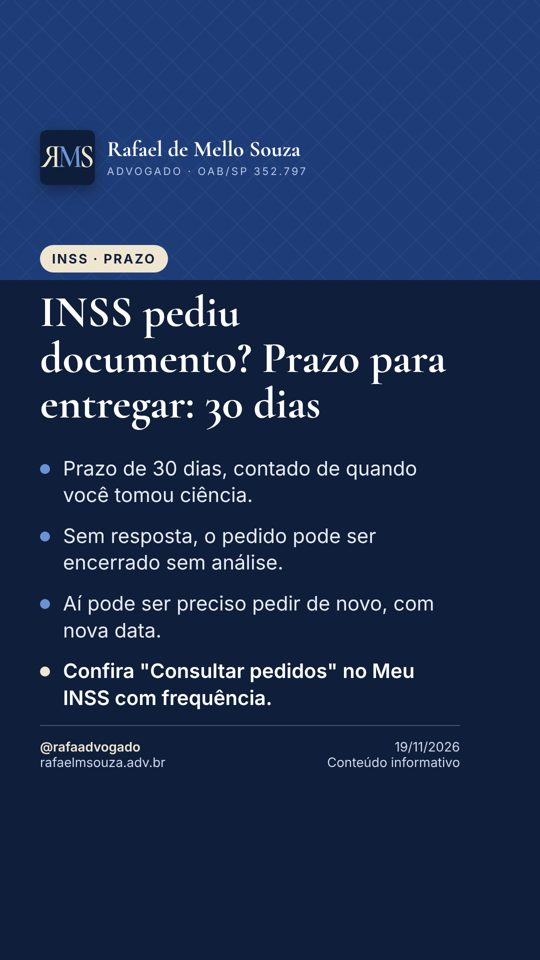
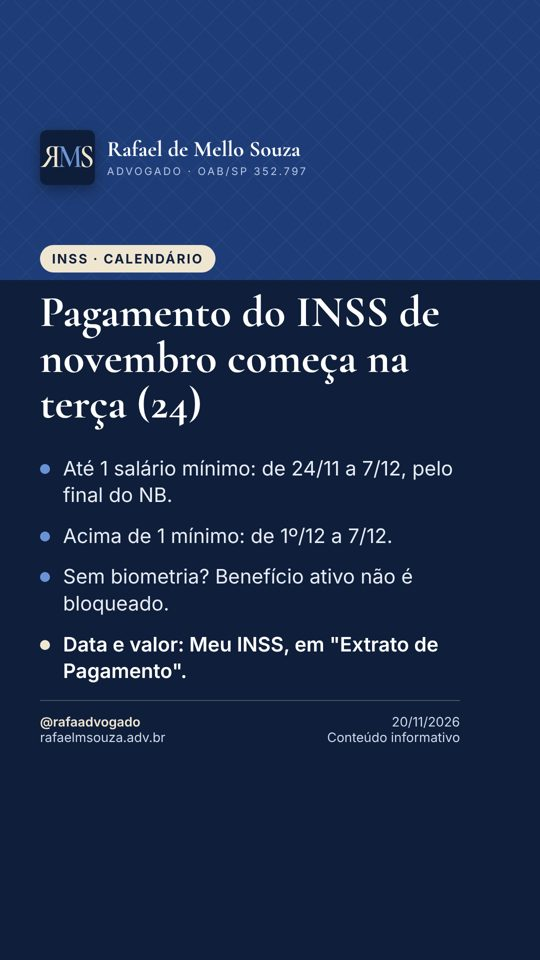
Notícia 20/11/2026: calendário de pagamento de novembro e biometria
Claude-Session: https://claude.ai/code/session_01TjRXWga78bz1b3B69nQ2d7

Changed region(s): [[0.0593, 0.25, 0.8296, 0.8125], [0.5926, 0.75, 0.8593, 0.8125], [0.0593, 0.5938, 0.0889, 0.7188]]

diff --git a/noticias/index.html b/noticias/index.html
@@ -14,4 +14,4 @@ h1{font-family:Georgia,serif;color:#0f1e3a;font-size:28px;line-height:1.25;margi
 .btn.s{background:#fff;color:#0f1e3a;border:1px solid #e3dccb}.lista a{text-decoration:none}.lista div{border-top:1px solid #e3dccb;padding:14px 0}.lista div:first-child{border-top:0}
 footer{text-align:center;font-size:13px;color:#5d6676;padding:10px 16px 30px}</style></head><body>
 <header><a href="/"><img src="/icon.png" alt=""></a><a href="/"><div class="n">Rafael de Mello Souza</div><div class="o">ADVOGADO · OAB/SP 352.797</div></a></header>
-<nav><a href="/#inicio">Início</a><a href="/#quem-somos">Quem somos</a><a href="/noticias/">Notícias</a><a href="/#consulta">Consultar processo</a></nav><main><div class="card"><h1>Notícias</h1><p class="sub">INSS e Direito Previdenciário, toda segunda, quarta e sexta.</p><div class="lista"><div><span class="d">19/11/2026</span><h2><a href="/noticias/2026-11-19-inss-exigencia-30-dias-portaria-1363.html">INSS: quem recebe exigência tem 30 dias para entregar documentos</a></h2><span class="sub">A Portaria DIRBEN/INSS nº 1.363/2026, publicada no Diário Oficial em 16/11/2026 e já em vigor, deixou claro o prazo para cumprir as exigências do INSS: quando o instituto pede um…</span></div><div><span class="d">18/11/2026</span><h2><a href="/noticias/2026-11-18-aposentadoria-regras-transicao-2027.html">Aposentadoria do INSS: duas regras de transição ficam mais exigentes em 2027</a></h2><span class="sub">Em 1º de janeiro de 2027, duas regras de transição da Reforma da Previdência sobem de patamar. Na regra dos pontos (idade + tempo de contribuição), a exigência passa de 93 para 94…</span></div><div><span class="d">17/11/2026</span><h2><a href="/noticias/2026-11-17-bpc-nao-pode-contribuir-facultativo-baixa-renda.html">Quem recebe BPC não pode pagar o INSS como baixa renda (5%)</a></h2><span class="sub">Quem recebe o BPC/LOAS pode contribuir para o INSS, mas não na modalidade de facultativo de baixa renda, com alíquota de 5%. Em 16/10/2026, a Turma Regional de Uniformização dos…</span></div><div><span class="d">16/11/2026</span><h2><a href="/noticias/2026-11-16-14-salario-inss-nao-aprovado-2026.html">14º salário do INSS: não há pagamento previsto em 2026</a></h2><span class="sub">Mensagens nas redes sociais falam em um &quot;14º salário&quot; para aposentados e pensionistas ainda neste ano, mas não existe lei que autorize esse pagamento. Há projetos sobre o tema na…</span></div><div><span class="d">13/11/2026</span><h2><a href="/noticias/2026-11-13-13-salario-proporcional-novos-beneficios-inss.html">Começou a receber do INSS depois de abril? O 13º vem na folha de novembro</a></h2><span class="sub">Quem passou a receber aposentadoria, pensão por morte, auxílio-acidente ou auxílio por incapacidade temporária a partir de maio de 2026 não entrou na antecipação do 13º feita em…</span></div><div><span class="d">12/11/2026</span><h2><a href="/noticias/2026-11-12-stf-vai-julgar-calculo-aposentadoria-pcd-tema-1497.html">STF vai julgar o cálculo da aposentadoria da pessoa com deficiência</a></h2><span class="sub">O STF reconheceu, por unanimidade, a repercussão geral do Tema 1497, que discute como deve ser calculada a aposentadoria da pessoa com deficiência depois da Reforma da…</span></div><div><span class="d">11/11/2026</span><h2><a href="/noticias/2026-11-11-inss-auxilio-doenca-negado-atestmed-reanalise-10-dias.html">Auxílio-doença negado pelo Atestmed: INSS abre reanálise em 10 dias</a></h2><span class="sub">Quem teve o auxílio por incapacidade temporária (antigo auxílio-doença) negado só pela análise de documentos do Atestmed pode pedir uma reanálise em até 10 dias, contados da…</span></div><div><span class="d">10/11/2026</span><h2><a href="/noticias/2026-11-10-stf-tema-1497-calculo-aposentadoria-pessoa-com-deficiencia.html">STF decide hoje se julgará o cálculo da aposentadoria da pessoa com deficiência</a></h2><span class="sub">Termina hoje (10/11) a votação no Plenário Virtual do STF sobre a repercussão geral do Tema 1497 (RE 1.597.638), que discute os critérios de cálculo da aposentadoria da pessoa com…</span></div><div><span class="d">10/11/2026</span><h2><a href="/noticias/2026-11-10-podcast-aposentadoria-especial-sem-idade-minima.html">Podcast: aposentadoria especial sem idade mínima após decisão do STF</a></h2><span class="sub">Novo episódio do podcast explica a decisão do STF na ADI 6309, que derrubou a idade mínima de 55, 58 e 60 anos criada pela Reforma da Previdência para a aposentadoria especial. O…</span></div><div><span class="d">10/11/2026</span><h2><a href="/noticias/2026-11-10-inss-piso-aposentadoria-2027-1741.html">INSS: piso das aposentadorias deve ir a R$ 1.741 em 2027</a></h2><span class="sub">O Orçamento de 2027 enviado pelo governo prevê salário mínimo de R$ 1.741, R$ 120 a mais que os R$ 1.621 atuais (alta de cerca de 7,4%). Aposentadorias, pensões e o BPC de um…</span></div><div><span class="d">09/11/2026</span><h2><a href="/noticias/2026-11-09-inss-biometria-bloqueio-falso.html">INSS: é falso que benefício será bloqueado sem biometria em novembro</a></h2><span class="sub">Circulam mensagens dizendo que aposentadorias e pensões serão bloqueadas em 20 de novembro por falta de biometria. O INSS informa que não existe prazo geral desse tipo: a…</span></div><div><span class="d">08/11/2026</span><h2><a href="/noticias/2026-11-08-calendario-novembro.html">INSS: pagamentos de novembro começam no dia 24</a></h2><span class="sub">Os benefícios referentes a novembro começam a ser pagos em 24/11 para quem recebe até um salário mínimo e em 1º/12 para quem recebe acima disso. Os depósitos vão até 7 de…</span></div></div></div></main><footer>Rafael de Mello Souza · Advogado · OAB/SP nº 352.797<br>© 2026 Rafael de Mello Souza – Advocacia. Todos os direitos reservados.<br>Site e sistema desenvolvidos por Rafael de Mello Souza.<br>Conteúdo informativo, não constitui consultoria jurídica. Cada caso tem particularidades. · <a href="/privacidade.html">Privacidade</a></footer></body></html>
+<nav><a href="/#inicio">Início</a><a href="/#quem-somos">Quem somos</a><a href="/noticias/">Notícias</a><a href="/#consulta">Consultar processo</a></nav><main><div class="card"><h1>Notícias</h1><p class="sub">INSS e Direito Previdenciário, toda segunda, quarta e sexta.</p><div class="lista"><div><span class="d">20/11/2026</span><h2><a href="/noticias/2026-11-20-inss-calendario-pagamento-novembro-biometria.html">Pagamento do INSS de novembro começa na terça (24); falta de biometria não bloqueia benefício</a></h2><span class="sub">A folha de novembro do INSS começa a ser paga na terça-feira, 24/11, e vai até 7/12. Para quem recebe até um salário mínimo, a data segue o último número do benefício antes do…</span></div><div><span class="d">19/11/2026</span><h2><a href="/noticias/2026-11-19-inss-exigencia-30-dias-portaria-1363.html">INSS: quem recebe exigência tem 30 dias para entregar documentos</a></h2><span class="sub">A Portaria DIRBEN/INSS nº 1.363/2026, publicada no Diário Oficial em 16/11/2026 e já em vigor, deixou claro o prazo para cumprir as exigências do INSS: quando o instituto pede um…</span></div><div><span class="d">18/11/2026</span><h2><a href="/noticias/2026-11-18-aposentadoria-regras-transicao-2027.html">Aposentadoria do INSS: duas regras de transição ficam mais exigentes em 2027</a></h2><span class="sub">Em 1º de janeiro de 2027, duas regras de transição da Reforma da Previdência sobem de patamar. Na regra dos pontos (idade + tempo de contribuição), a exigência passa de 93 para 94…</span></div><div><span class="d">17/11/2026</span><h2><a href="/noticias/2026-11-17-bpc-nao-pode-contribuir-facultativo-baixa-renda.html">Quem recebe BPC não pode pagar o INSS como baixa renda (5%)</a></h2><span class="sub">Quem recebe o BPC/LOAS pode contribuir para o INSS, mas não na modalidade de facultativo de baixa renda, com alíquota de 5%. Em 16/10/2026, a Turma Regional de Uniformização dos…</span></div><div><span class="d">16/11/2026</span><h2><a href="/noticias/2026-11-16-14-salario-inss-nao-aprovado-2026.html">14º salário do INSS: não há pagamento previsto em 2026</a></h2><span class="sub">Mensagens nas redes sociais falam em um &quot;14º salário&quot; para aposentados e pensionistas ainda neste ano, mas não existe lei que autorize esse pagamento. Há projetos sobre o tema na…</span></div><div><span class="d">13/11/2026</span><h2><a href="/noticias/2026-11-13-13-salario-proporcional-novos-beneficios-inss.html">Começou a receber do INSS depois de abril? O 13º vem na folha de novembro</a></h2><span class="sub">Quem passou a receber aposentadoria, pensão por morte, auxílio-acidente ou auxílio por incapacidade temporária a partir de maio de 2026 não entrou na antecipação do 13º feita em…</span></div><div><span class="d">12/11/2026</span><h2><a href="/noticias/2026-11-12-stf-vai-julgar-calculo-aposentadoria-pcd-tema-1497.html">STF vai julgar o cálculo da aposentadoria da pessoa com deficiência</a></h2><span class="sub">O STF reconheceu, por unanimidade, a repercussão geral do Tema 1497, que discute como deve ser calculada a aposentadoria da pessoa com deficiência depois da Reforma da…</span></div><div><span class="d">11/11/2026</span><h2><a href="/noticias/2026-11-11-inss-auxilio-doenca-negado-atestmed-reanalise-10-dias.html">Auxílio-doença negado pelo Atestmed: INSS abre reanálise em 10 dias</a></h2><span class="sub">Quem teve o auxílio por incapacidade temporária (antigo auxílio-doença) negado só pela análise de documentos do Atestmed pode pedir uma reanálise em até 10 dias, contados da…</span></div><div><span class="d">10/11/2026</span><h2><a href="/noticias/2026-11-10-stf-tema-1497-calculo-aposentadoria-pessoa-com-deficiencia.html">STF decide hoje se julgará o cálculo da aposentadoria da pessoa com deficiência</a></h2><span class="sub">Termina hoje (10/11) a votação no Plenário Virtual do STF sobre a repercussão geral do Tema 1497 (RE 1.597.638), que discute os critérios de cálculo da aposentadoria da pessoa com…</span></div><div><span class="d">10/11/2026</span><h2><a href="/noticias/2026-11-10-podcast-aposentadoria-especial-sem-idade-minima.html">Podcast: aposentadoria especial sem idade mínima após decisão do STF</a></h2><span class="sub">Novo episódio do podcast explica a decisão do STF na ADI 6309, que derrubou a idade mínima de 55, 58 e 60 anos criada pela Reforma da Previdência para a aposentadoria especial. O…</span></div><div><span class="d">10/11/2026</span><h2><a href="/noticias/2026-11-10-inss-piso-aposentadoria-2027-1741.html">INSS: piso das aposentadorias deve ir a R$ 1.741 em 2027</a></h2><span class="sub">O Orçamento de 2027 enviado pelo governo prevê salário mínimo de R$ 1.741, R$ 120 a mais que os R$ 1.621 atuais (alta de cerca de 7,4%). Aposentadorias, pensões e o BPC de um…</span></div><div><span class="d">09/11/2026</span><h2><a href="/noticias/2026-11-09-inss-biometria-bloqueio-falso.html">INSS: é falso que benefício será bloqueado sem biometria em novembro</a></h2><span class="sub">Circulam mensagens dizendo que aposentadorias e pensões serão bloqueadas em 20 de novembro por falta de biometria. O INSS informa que não existe prazo geral desse tipo: a…</span></div><div><span class="d">08/11/2026</span><h2><a href="/noticias/2026-11-08-calendario-novembro.html">INSS: pagamentos de novembro começam no dia 24</a></h2><span class="sub">Os benefícios referentes a novembro começam a ser pagos em 24/11 para quem recebe até um salário mínimo e em 1º/12 para quem recebe acima disso. Os depósitos vão até 7 de…</span></div></div></div></main><footer>Rafael de Mello Souza · Advogado · OAB/SP nº 352.797<br>© 2026 Rafael de Mello Souza – Advocacia. Todos os direitos reservados.<br>Site e sistema desenvolvidos por Rafael de Mello Souza.<br>Conteúdo informativo, não constitui consultoria jurídica. Cada caso tem particularidades. · <a href="/privacidade.html">Privacidade</a></footer></body></html>

diff --git a/noticias/2026-11-20-inss-calendario-pagamento-novembro-biometria.html b/noticias/2026-11-20-inss-calendario-pagamento-novembro-biometria.html
@@ -1,0 +1,19 @@
+<!DOCTYPE html><html lang="pt-BR"><head><meta charset="utf-8">
+<meta name="viewport" content="width=device-width, initial-scale=1">
+<title>Pagamento do INSS de novembro começa na terça (24); falta de biometria não bloqueia benefício | Rafael de Mello Souza – Advogado</title><meta name="description" content="A folha de novembro do INSS começa a ser paga na terça-feira, 24/11, e vai até 7/12. Para quem recebe até um salário mínimo, a data segue o último número…"><link rel="canonical" href="https://rafaelmsouza.adv.br/noticias/2026-11-20-inss-calendario-pagamento-novembro-biometria.html">
+<meta property="og:type" content="article"><meta property="og:title" content="Pagamento do INSS de novembro começa na terça (24); falta de biometria não bloqueia benefício | Rafael de Mello Souza – Advogado"><meta property="og:description" content="A folha de novembro do INSS começa a ser paga na terça-feira, 24/11, e vai até 7/12. Para quem recebe até um salário mínimo, a data segue o último número…"><meta property="og:url" content="https://rafaelmsouza.adv.br/noticias/2026-11-20-inss-calendario-pagamento-novembro-biometria.html"><meta property="og:image" content="https://rafaelmsouza.adv.br/cartao.jpg"><meta property="og:locale" content="pt_BR">
+<link rel="icon" href="/icon.png"><meta name="theme-color" content="#0f1e3a">
+<script defer src="https://cloud.umami.is/script.js" data-website-id="e1ed7d73-fa33-4e80-996a-a7cae57abea0"></script><script type="application/ld+json">{"@context": "https://schema.org", "@type": "NewsArticle", "headline": "Pagamento do INSS de novembro começa na terça (24); falta de biometria não bloqueia benefício", "description": "A folha de novembro do INSS começa a ser paga na terça-feira, 24/11, e vai até 7/12. Para quem recebe até um salário mínimo, a data segue o último número…", "datePublished": "2026-11-20", "dateModified": "2026-11-20", "inLanguage": "pt-BR", "mainEntityOfPage": "https://rafaelmsouza.adv.br/noticias/2026-11-20-inss-calendario-pagamento-novembro-biometria.html", "image": ["https://rafaelmsouza.adv.br/cartao.jpg"], "author": {"@type": "Person", "name": "Rafael de Mello Souza", "jobTitle": "Advogado", "url": "https://rafaelmsouza.adv.br"}, "publisher": {"@type": "Organization", "name": "Rafael de Mello Souza – Advocacia", "logo": {"@type": "ImageObject", "url": "https://rafaelmsouza.adv.br/icon.png"}}}</script>
+<style>*{box-sizing:border-box}body{margin:0;background:#f7f3ea;color:#1b2333;font:17px/1.6 -apple-system,BlinkMacSystemFont,"Segoe UI",Roboto,Helvetica,Arial,sans-serif}
+a{color:#1e3d78}header{background:#0f1e3a;color:#efe6d2;padding:16px 20px;display:flex;align-items:center;gap:14px}
+header img{width:44px;height:44px;border-radius:8px}header a{color:inherit;text-decoration:none}.n{font-family:Georgia,serif;font-size:19px}.o{font-size:12px;letter-spacing:2px;color:#b9c6e4}
+nav{background:#1e3d78;display:flex;overflow-x:auto;padding:0 8px}nav a{color:#dfe7f6;text-decoration:none;padding:11px 12px;font-size:15px;white-space:nowrap}
+main{max-width:720px;margin:0 auto;padding:22px 16px 110px}article,.card{background:#fff;border:1px solid #e3dccb;border-radius:16px;padding:22px}
+h1{font-family:Georgia,serif;color:#0f1e3a;font-size:28px;line-height:1.25;margin:4px 0 10px}h2{font-family:Georgia,serif;color:#0f1e3a;font-size:20px;margin:0 0 4px}
+.d{color:#5d6676;font-size:14px;font-weight:600}.sub{color:#5d6676;font-size:14px}.btn{display:inline-block;background:#1f9d55;color:#fff;text-decoration:none;font-weight:700;padding:12px 18px;border-radius:10px;margin:10px 8px 0 0}
+.btn.s{background:#fff;color:#0f1e3a;border:1px solid #e3dccb}.lista a{text-decoration:none}.lista div{border-top:1px solid #e3dccb;padding:14px 0}.lista div:first-child{border-top:0}
+footer{text-align:center;font-size:13px;color:#5d6676;padding:10px 16px 30px}</style></head><body>
+<header><a href="/"><img src="/icon.png" alt=""></a><a href="/"><div class="n">Rafael de Mello Souza</div><div class="o">ADVOGADO · OAB/SP 352.797</div></a></header>
+<nav><a href="/#inicio">Início</a><a href="/#quem-somos">Quem somos</a><a href="/noticias/">Notícias</a><a href="/#consulta">Consultar processo</a></nav><main>
+<article><div class="d">20/11/2026 · Notícias</div><h1>Pagamento do INSS de novembro começa na terça (24); falta de biometria não bloqueia benefício</h1><p>A folha de novembro do INSS começa a ser paga na terça-feira, 24/11, e vai até 7/12. Para quem recebe até um salário mínimo, a data segue o último número do benefício antes do traço: final 1 recebe em 24/11, final 2 em 25/11, final 3 em 26/11, final 4 em 27/11, final 5 em 30/11, final 6 em 1º/12, final 7 em 2/12, final 8 em 3/12, final 9 em 4/12 e final 0 em 7/12. Acima de um salário mínimo, os pagamentos vão de 1º/12 (finais 1 e 6) a 7/12 (finais 5 e 0).</p><p>Quem passou a receber benefício a partir de maio de 2026 e não entrou na antecipação de abril e maio recebe o 13º proporcional junto com essa folha, em parcela única.</p><p>O INSS também reforçou que não existe bloqueio de benefícios ativos por falta de cadastro biométrico: a biometria é exigida em novos pedidos feitos desde 21/11/2025 (com exceções, como salário-maternidade, benefícios por incapacidade e pensão por morte) e na contratação de empréstimo consignado. Mensagens que falam em prazo para evitar bloqueio são falsas e podem ser tentativa de golpe. A data e o valor podem ser conferidos no Meu INSS, em &quot;Extrato de Pagamento&quot;, ou pela Central 135.</p><p class="sub">Fonte: <a href="https://www.gov.br/inss/" target="_blank" rel="noopener nofollow" data-umami-event="noticia-fonte">INSS – Portal Gov.br (calendário e nota sobre biometria)</a></p>
+<a class="btn" href="https://wa.me/5514996119228?text=Ol%C3%A1%2C%20Dr.%20Rafael%21%20Li%20a%20not%C3%ADcia%20%22Pagamento%20do%20INSS%20de%20novembro%20come%C3%A7a%20na%20ter%C3%A7a%20%2824%29%3B%20falta%20de%20biometria%20n%C3%A3o%20bloqueia%20benef%C3%ADcio%22%20no%20seu%20site%20e%20tenho%20uma%20d%C3%BAvida." target="_blank" rel="noopener" data-umami-event="whatsapp">💬 Tirar dúvida no WhatsApp</a><a class="btn s" href="/noticias/">Ver todas as notícias</a></article></main><footer>Rafael de Mello Souza · Advogado · OAB/SP nº 352.797<br>© 2026 Rafael de Mello Souza – Advocacia. Todos os direitos reservados.<br>Site e sistema desenvolvidos por Rafael de Mello Souza.<br>Conteúdo informativo, não constitui consultoria jurídica. Cada caso tem particularidades. · <a href="/privacidade.html">Privacidade</a></footer></body></html>
